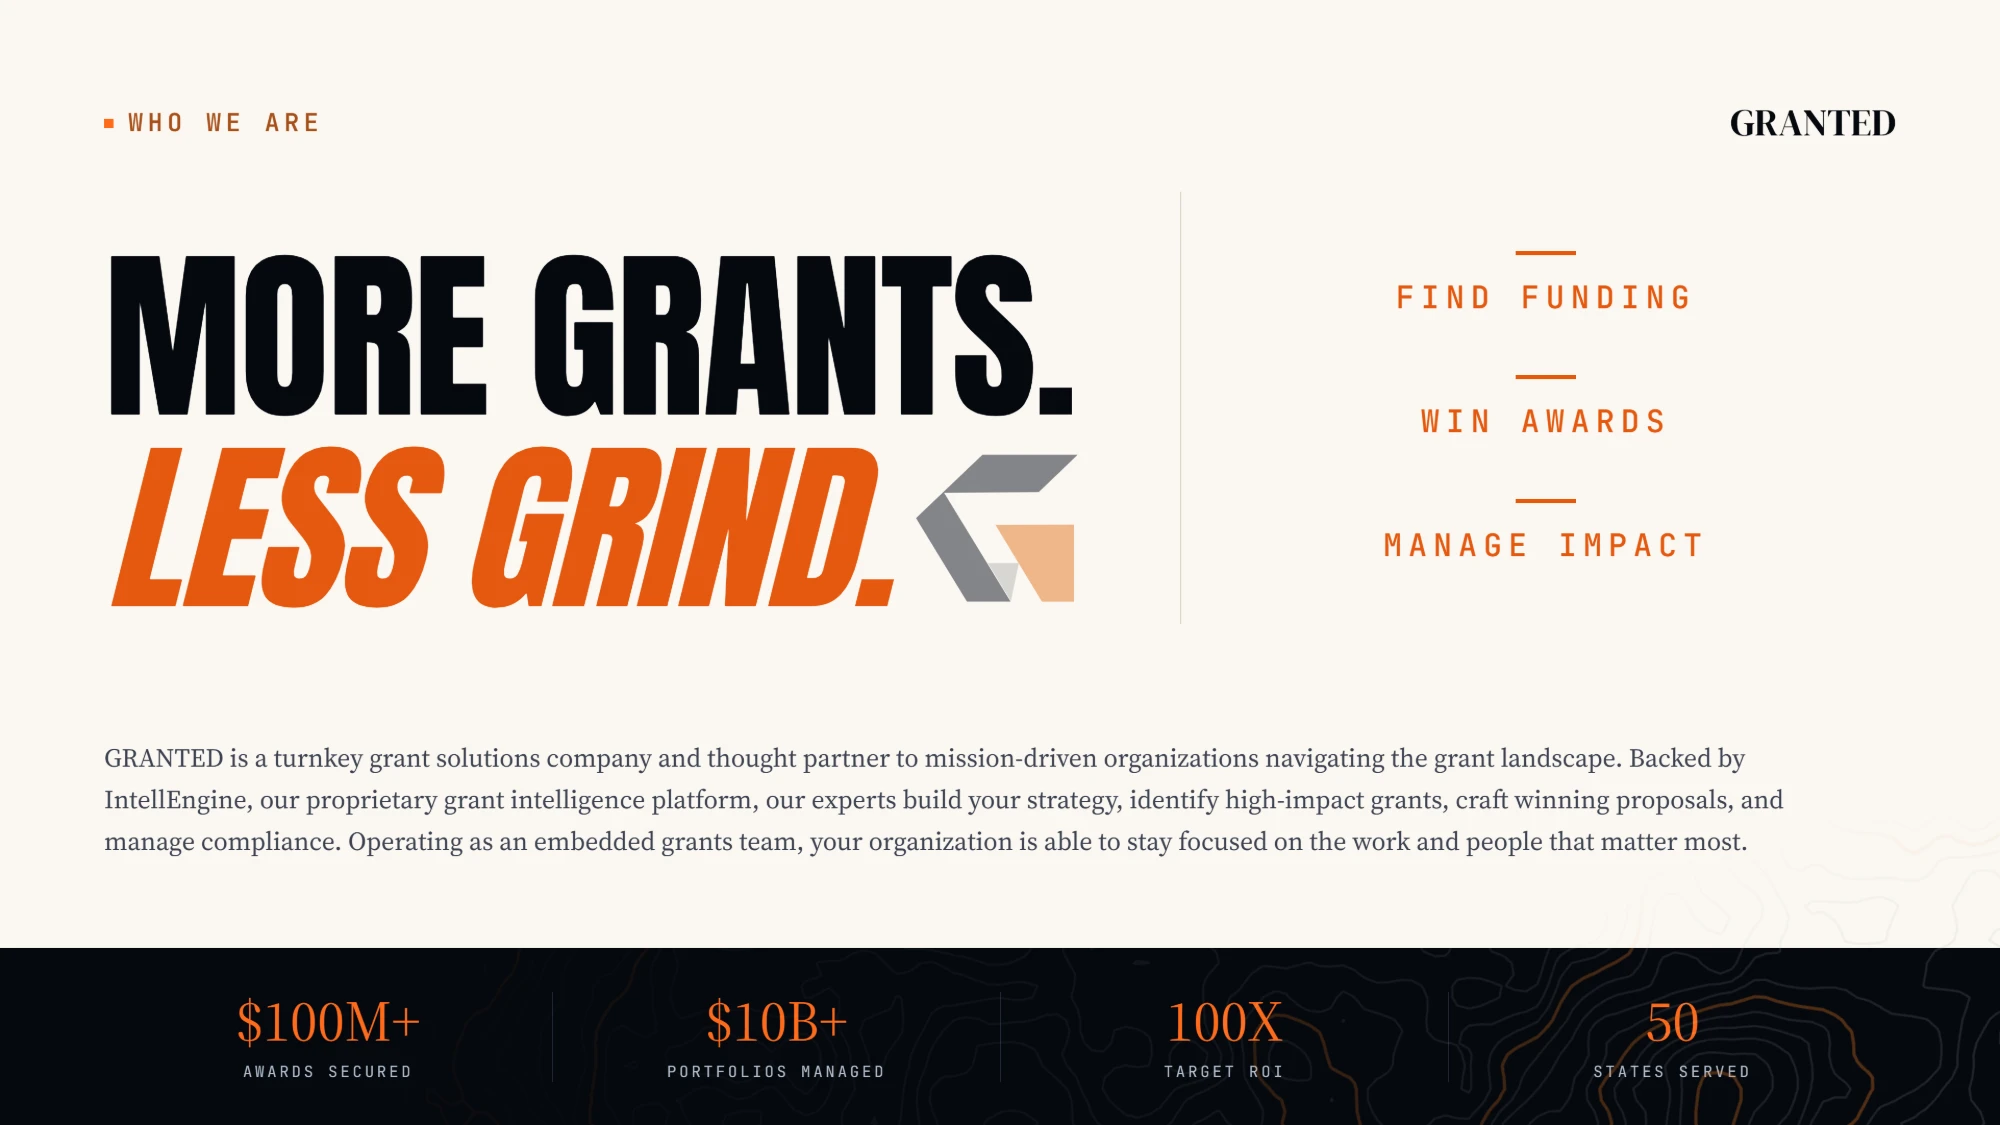
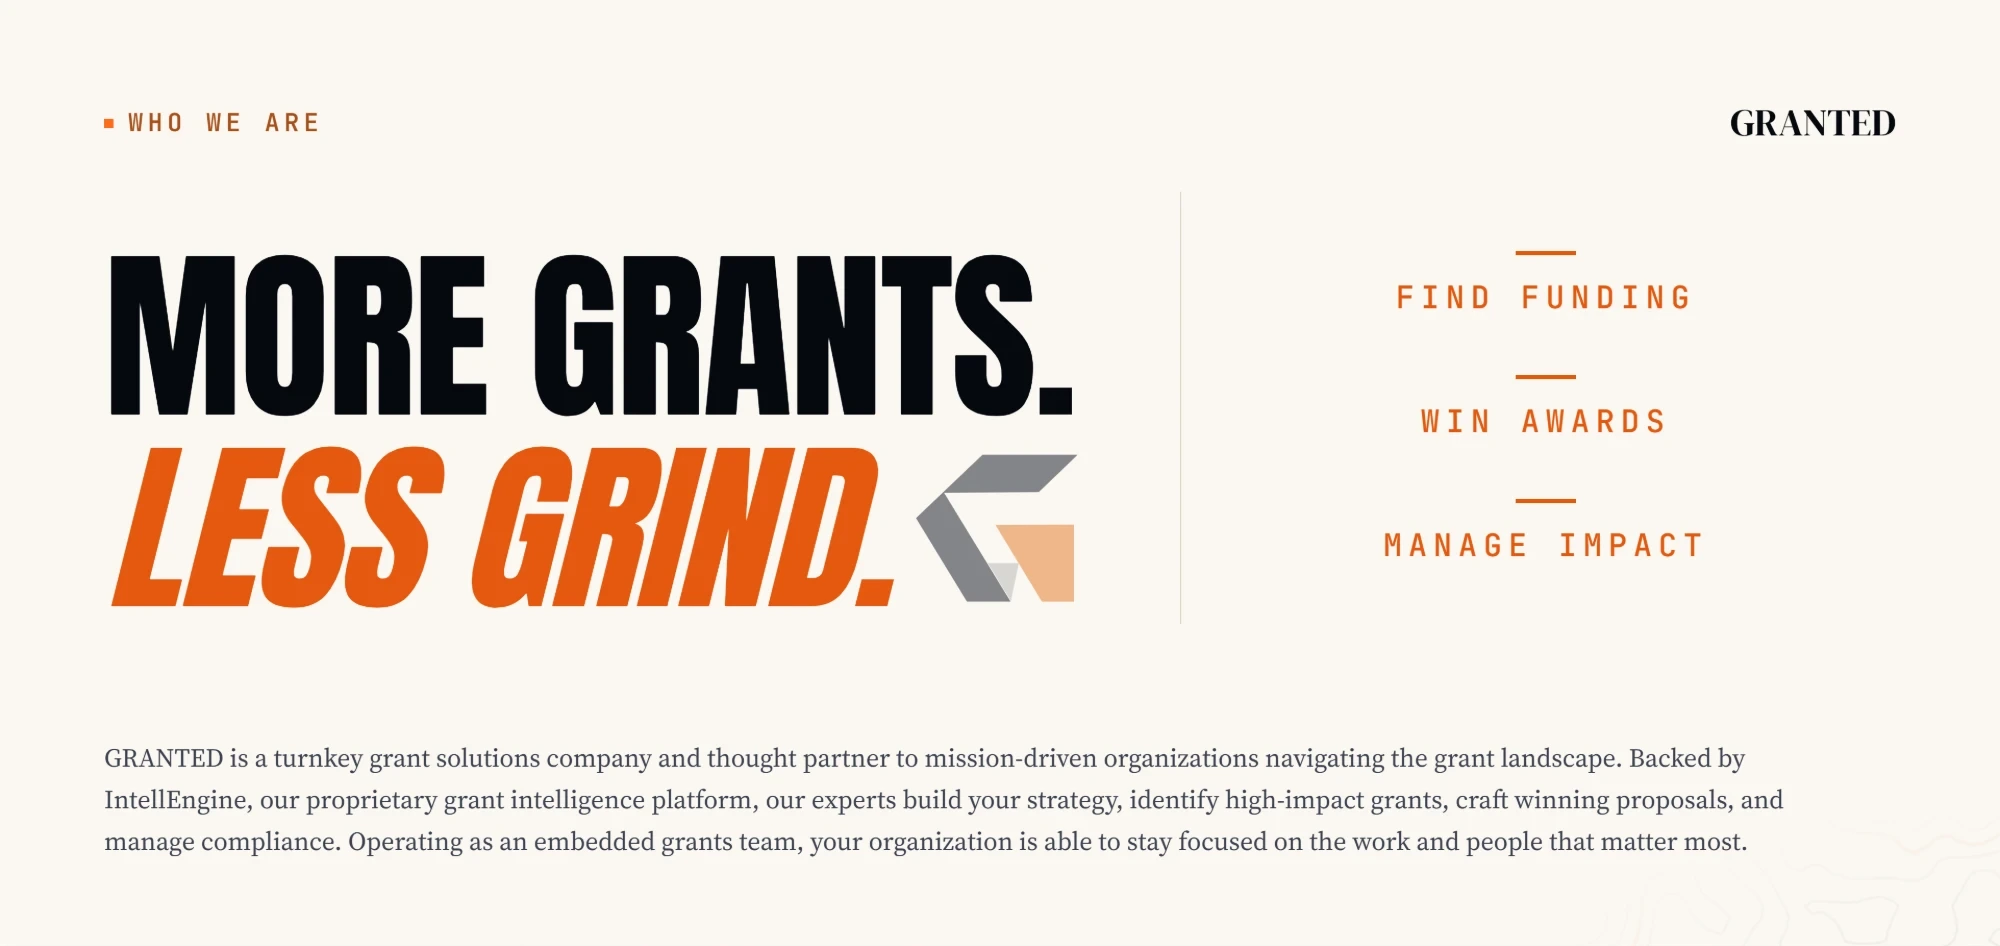
About: remove How We Work section and stats bar from Who We Are graphic
Claude-Session: https://claude.ai/code/session_0117g1ShtwtyFyEFMGg6VSwx

diff --git a/about.html b/about.html
@@ -55,18 +55,12 @@
 <div class="stripe"></div>
 <h1 class="sr-only">About GRANTED</h1>
 <section class="cream-bg about-graphic">
-  <img src="about-hero.webp" width="2000" height="1125" alt="Who we are. More Grants. Less Grind. Find funding, win awards, manage impact. GRANTED is a turnkey grant solutions company and thought partner to mission-driven organizations navigating the grant landscape. Backed by IntellEngine, our proprietary grant intelligence platform, our experts build your strategy, identify high-impact grants, craft winning proposals, and manage compliance. Operating as an embedded grants team, your organization is able to stay focused on the work and people that matter most. $100M+ awards secured, $10B+ portfolios managed, 100X target ROI, 50 states served.">
+  <img src="about-hero.webp" width="2000" height="946" alt="Who we are. More Grants. Less Grind. Find funding, win awards, manage impact. GRANTED is a turnkey grant solutions company and thought partner to mission-driven organizations navigating the grant landscape. Backed by IntellEngine, our proprietary grant intelligence platform, our experts build your strategy, identify high-impact grants, craft winning proposals, and manage compliance. Operating as an embedded grants team, your organization is able to stay focused on the work and people that matter most.">
   <div class="about-text">
     <div class="about-text-eyebrow">Who We Are</div>
     <h2 class="about-text-h"><span>More Grants.</span> Less Grind.</h2>
     <p class="about-text-pillars">Find Funding &middot; Win Awards &middot; Manage Impact</p>
     <p class="about-text-body">GRANTED is a turnkey grant solutions company and thought partner to mission-driven organizations navigating the grant landscape. Backed by IntellEngine, our proprietary grant intelligence platform, our experts build your strategy, identify high-impact grants, craft winning proposals, and manage compliance. Operating as an embedded grants team, your organization is able to stay focused on the work and people that matter most.</p>
-    <ul class="about-text-stats">
-      <li><strong>$100M+</strong>Awards Secured</li>
-      <li><strong>$10B+</strong>Portfolios Managed</li>
-      <li><strong>100X</strong>Target ROI</li>
-      <li><strong>50</strong>States Served</li>
-    </ul>
   </div>
 </section>
 
@@ -96,17 +90,6 @@
     </div>
   </div>
 </div>
-
-<div class="section">
-  <div class="sec-label reveal">How We Work</div>
-  <div class="sec-title reveal d1">Our Approach</div>
-  <div class="values-grid">
-    <div class="value-card reveal d1"><div class="value-title">Strategic First</div><p class="value-body">Every Partner and Enterprise engagement starts with understanding your mission, your capacity, and what a realistic win looks like. Then we build backward from there.</p></div>
-    <div class="value-card reveal d2"><div class="value-title">Honest Fit Assessment</div><p class="value-body">On Partner and Enterprise, we tell you when a grant isn't right for you. A weak application wastes time and erodes funder relationships. We only pursue what we believe you can win.</p></div>
-    <div class="value-card reveal d3"><div class="value-title">End-to-End Execution</div><p class="value-body">On Partner and Enterprise, from opportunity identification through post-award compliance, we stay with you. Our work doesn't stop at submission — it stops when the project closes out cleanly.</p></div>
-  </div>
-</div>
-
 
 <div class="section" style="text-align:center;padding-top:72px;padding-bottom:72px">
   <div class="sec-label" style="display:block;text-align:center;border-bottom:none;padding-bottom:0;margin-bottom:14px">Ready to Work Together?</div>

diff --git a/style.css b/style.css
@@ -1403,8 +1403,5 @@ a { text-decoration: none; color: inherit; }
   .about-text-h { font-family: 'Bebas Neue', sans-serif; font-size: 56px; line-height: 0.95; color: var(--ink); font-weight: 400; margin-bottom: 12px; }
   .about-text-h span { display: block; }
   .about-text-pillars { color: var(--orange-ink); font-size: 9pt; font-weight: 700; letter-spacing: 0.14em; text-transform: uppercase; margin-bottom: 20px; }
-  .about-text-body { color: var(--ink-2); font-size: 11pt; margin-bottom: 28px; }
-  .about-text-stats { list-style: none; padding: 20px 0 0; margin: 0; display: grid; grid-template-columns: 1fr 1fr; gap: 20px; border-top: 1px solid var(--border); }
-  .about-text-stats li { color: var(--muted); font-size: 8pt; font-weight: 700; letter-spacing: 0.14em; text-transform: uppercase; }
-  .about-text-stats strong { display: block; font-family: 'Bebas Neue', sans-serif; font-weight: 400; font-size: 32px; letter-spacing: 1px; color: var(--orange); margin-bottom: 2px; }
+  .about-text-body { color: var(--ink-2); font-size: 11pt; }
 }
